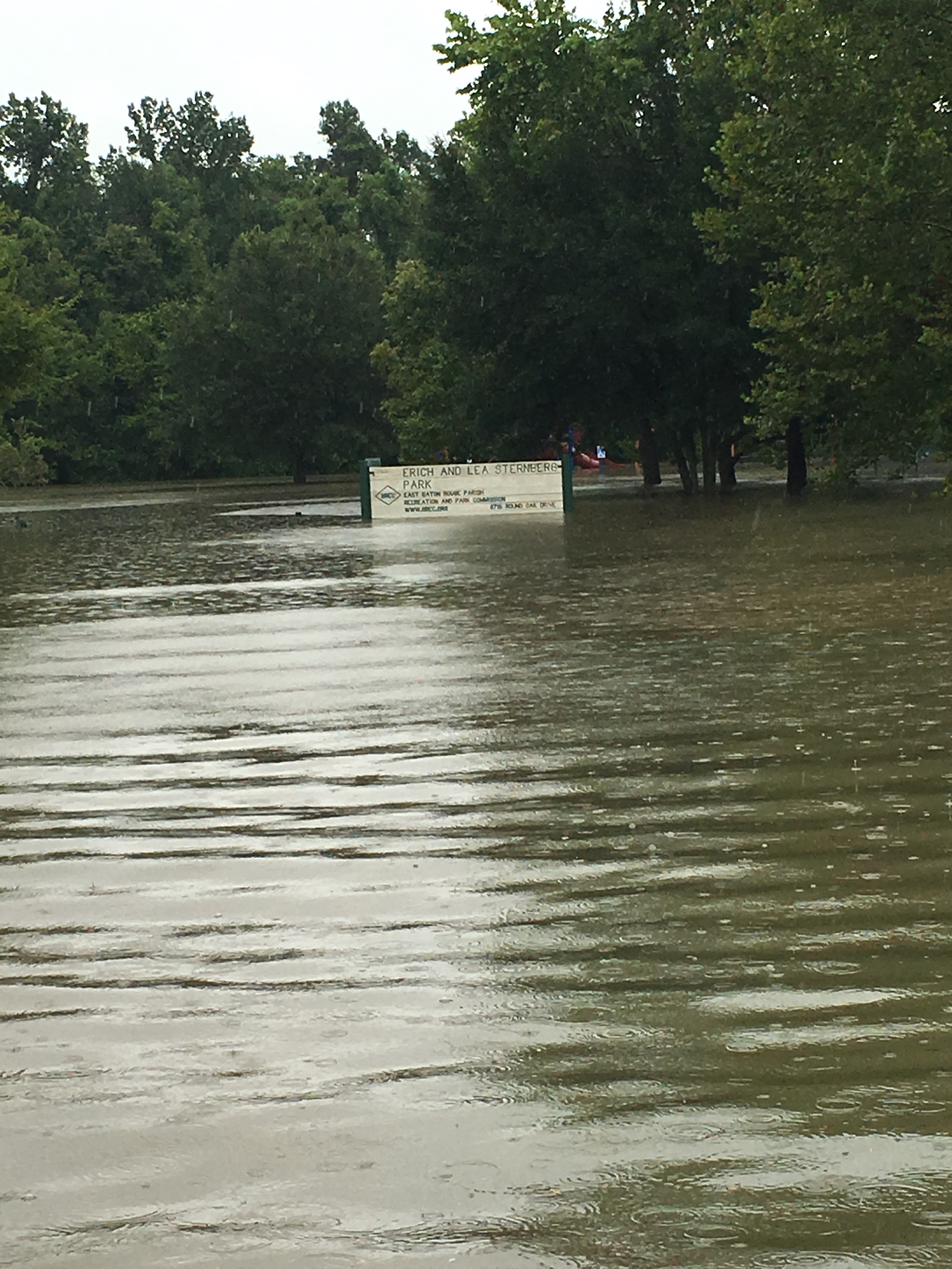
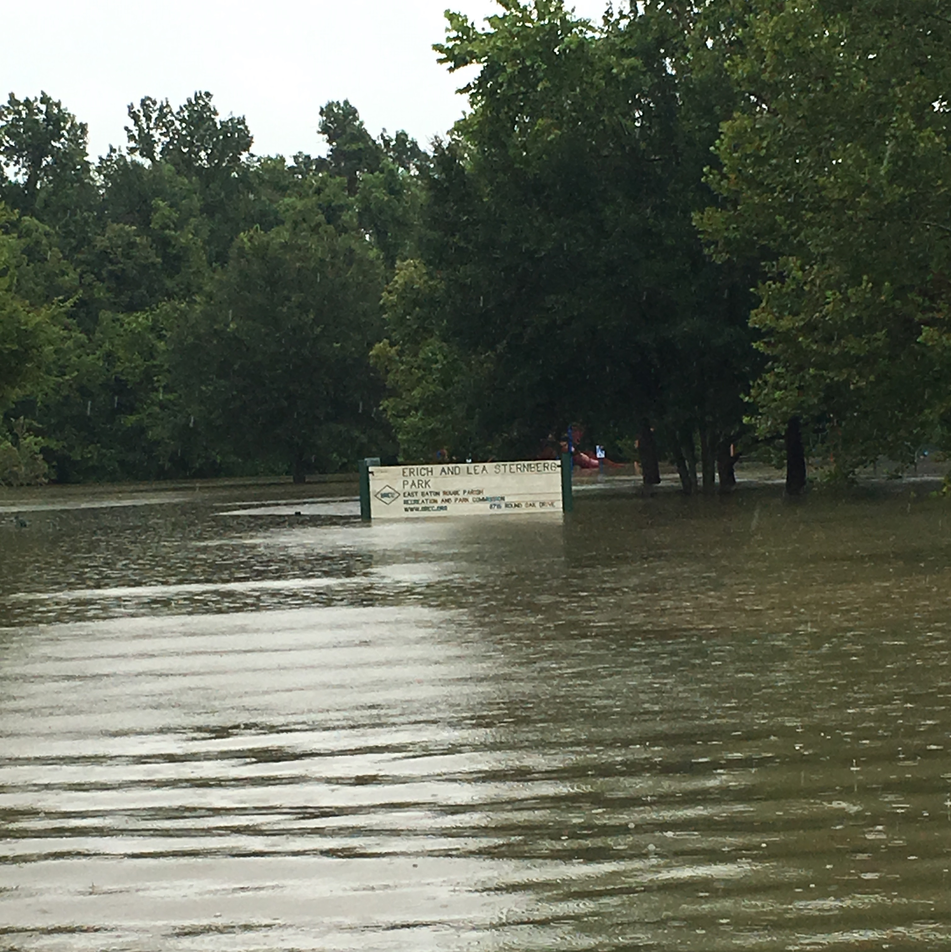
Photo sizes

diff --git a/css/oofda.css b/css/oofda.css
@@ -120,8 +120,8 @@ li {list-style: none}
       }
 	  
 .popup-photo {
-	width:80%;
-	height:auto
+	max-width:80%;
+	max-height:80%;
 	  } 
 	  
 @media only screen 
